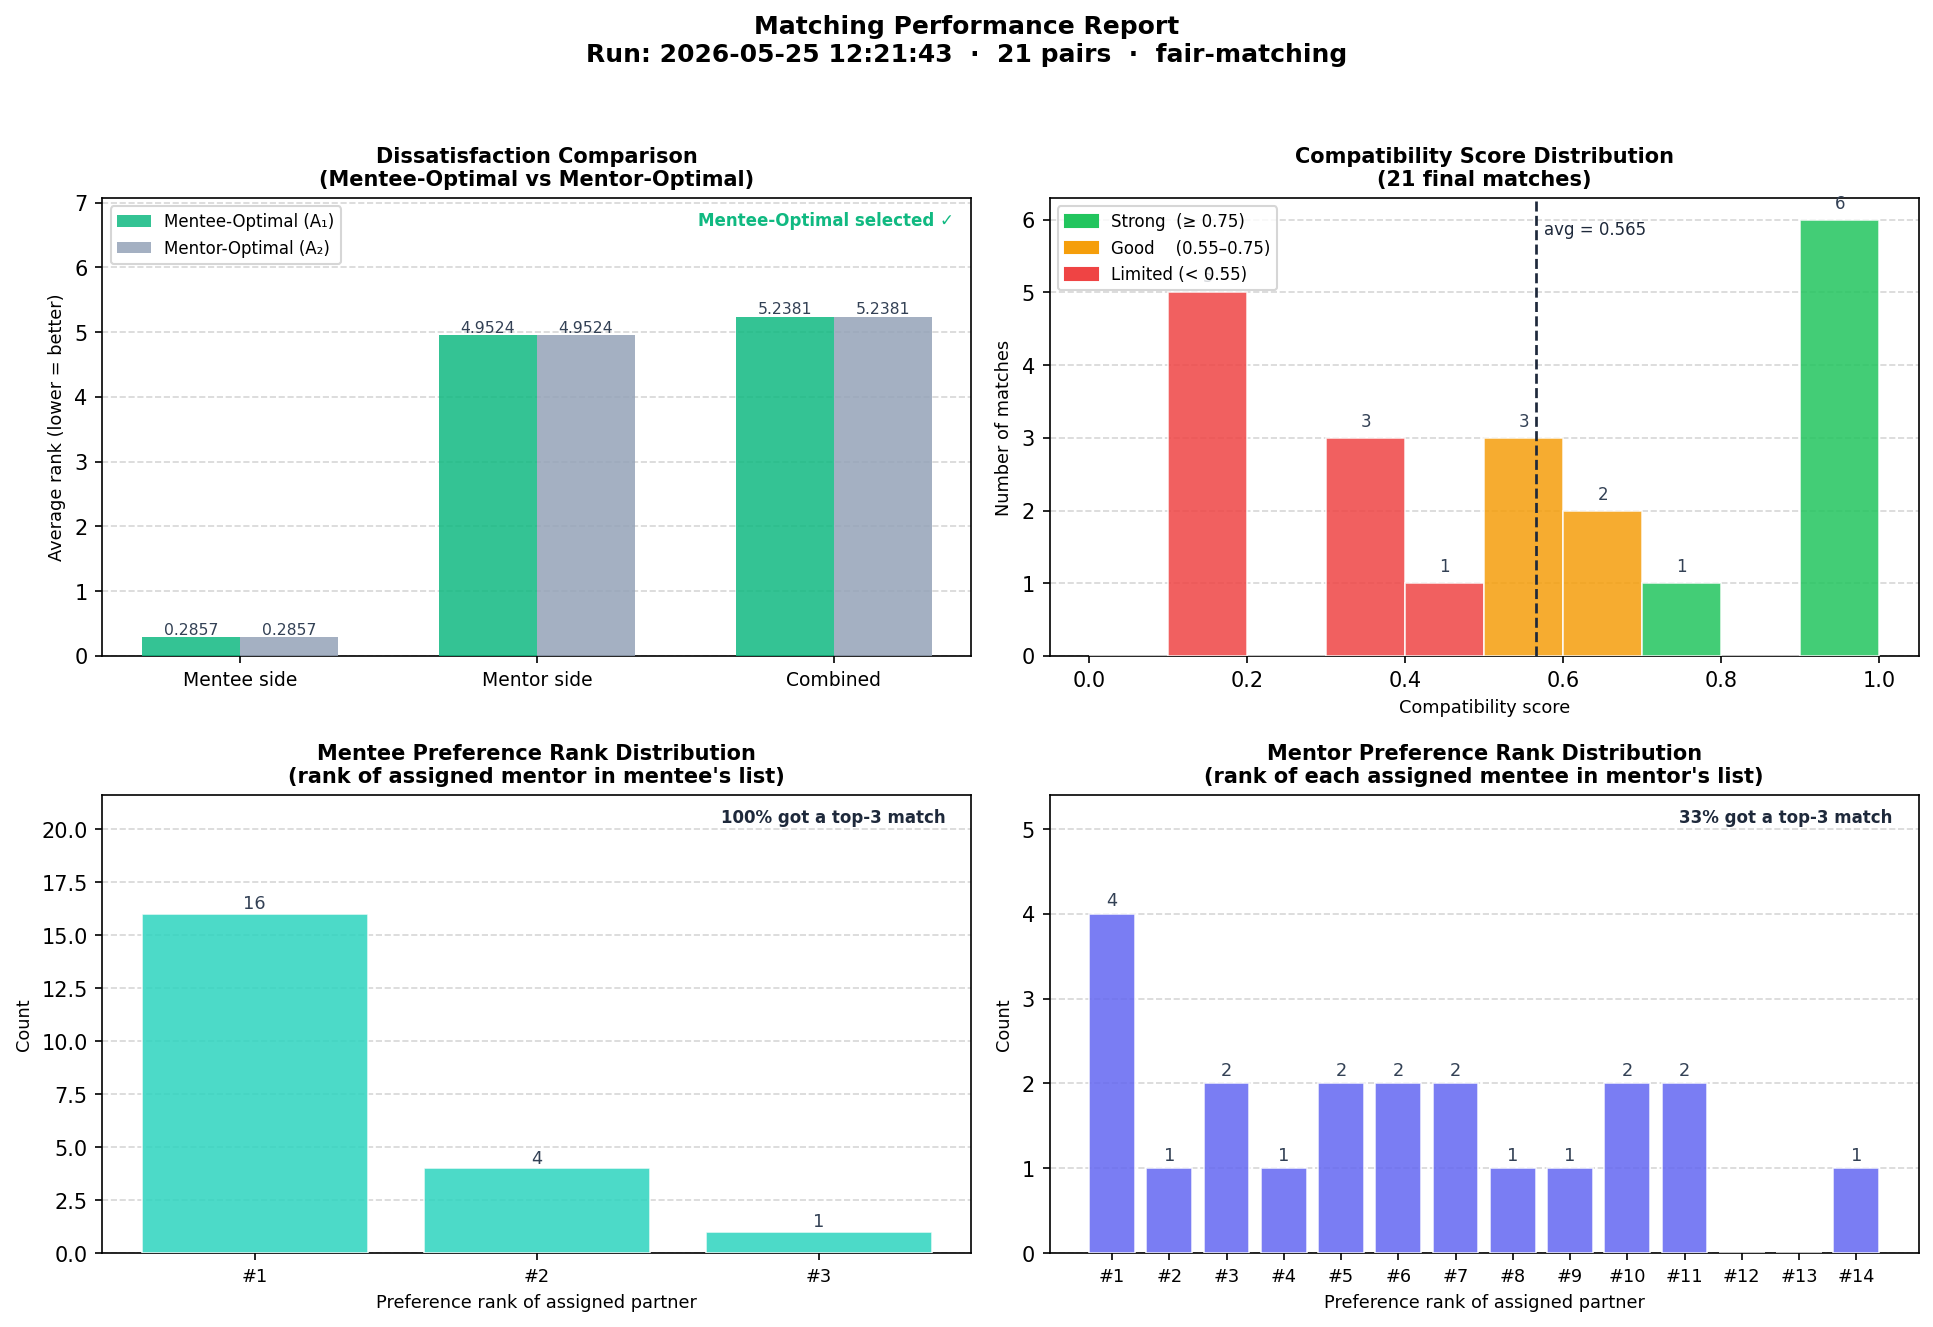
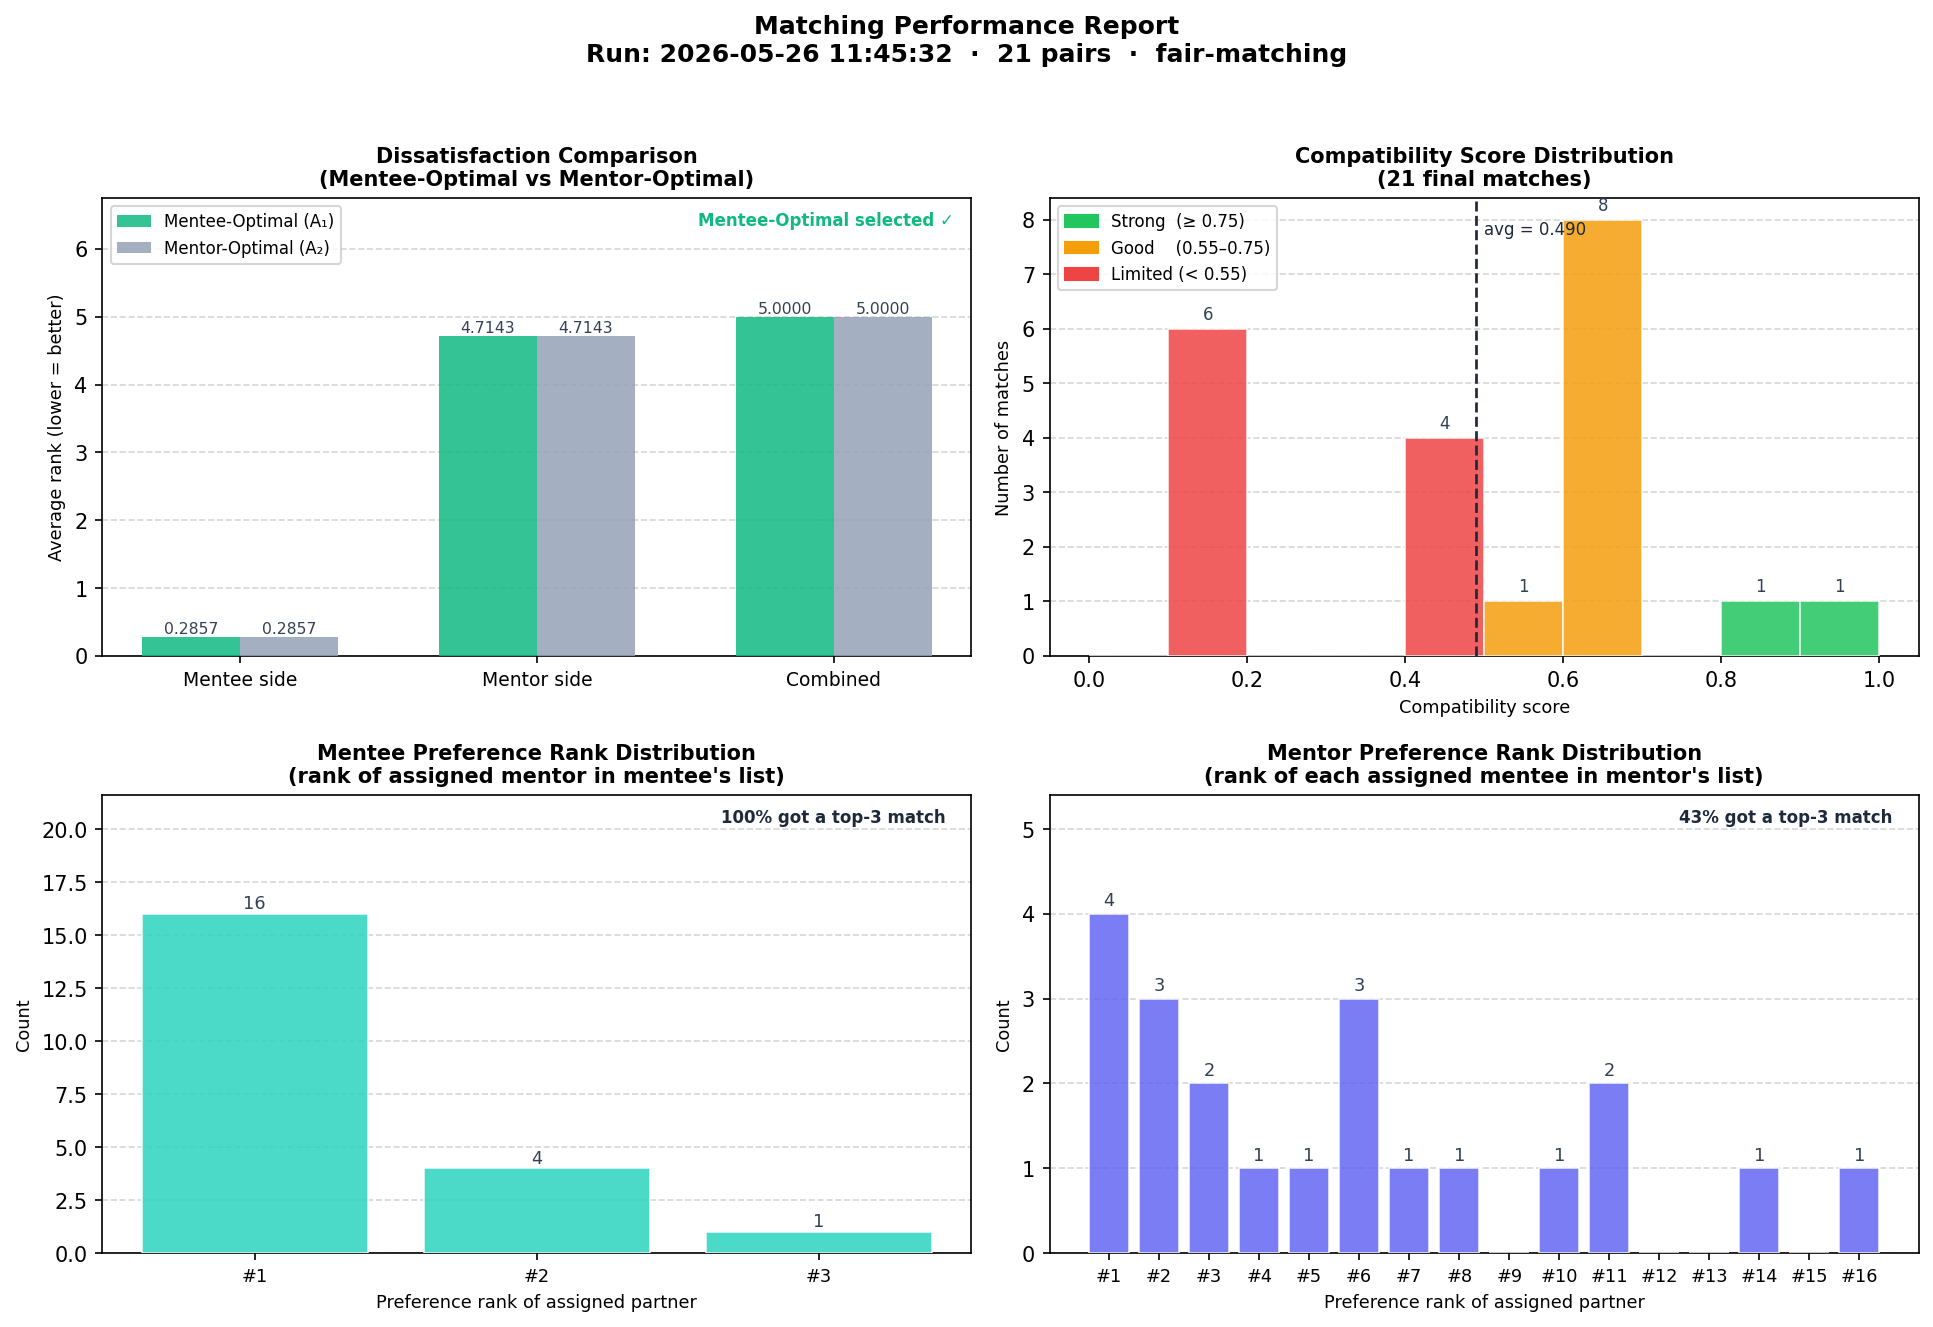
Updated algo

diff --git a/app/admin/admin.tsx b/app/admin/admin.tsx
@@ -1443,7 +1443,7 @@ export default function Admin() {
                                       {entry.top_matches.map((match: any, idx: number) => {
                                         const scoreColor = match.final_score >= 0.65 ? "bg-green-100 text-green-700"
                                           : match.final_score >= 0.40 ? "bg-amber-100 text-amber-700"
-                                          : "bg-red-100 text-red-700"
+                                            : "bg-red-100 text-red-700"
                                         return (
                                           <div key={idx} className="text-xs bg-gray-50 rounded px-3 py-2 space-y-1.5">
                                             <div className="flex flex-wrap items-center gap-2">
@@ -1507,7 +1507,7 @@ export default function Admin() {
                                       {entry.top_matches.map((match: any, idx: number) => {
                                         const scoreColor = match.final_score >= 0.65 ? "bg-green-100 text-green-700"
                                           : match.final_score >= 0.40 ? "bg-amber-100 text-amber-700"
-                                          : "bg-red-100 text-red-700"
+                                            : "bg-red-100 text-red-700"
                                         return (
                                           <div key={idx} className="text-xs bg-gray-50 rounded px-3 py-2 space-y-1.5">
                                             <div className="flex flex-wrap items-center gap-2">
@@ -1702,7 +1702,7 @@ export default function Admin() {
                           const pct = (match.score * 100).toFixed(1)
                           const scoreColor = match.score >= 0.65 ? "bg-green-100 text-green-700"
                             : match.score >= 0.40 ? "bg-amber-100 text-amber-700"
-                            : "bg-red-100 text-red-700"
+                              : "bg-red-100 text-red-700"
                           return (
                             <div key={idx} className="p-3 bg-white rounded-lg border border-green-100 space-y-1.5">
                               <div className="flex items-center gap-3">

diff --git a/app/algo/preprocess/scoring.py b/app/algo/preprocess/scoring.py
@@ -314,14 +314,16 @@ def _kw_similarity_semantic(
     threshold: float = KW_SIMILARITY_THRESHOLD,
 ) -> tuple[float, int]:
     """
-    Pairwise TF-IDF cosine between keyword lists with a similarity threshold.
+    Two-step keyword matching that guarantees exact vocab intersections are counted.
 
-    1. Normalize each keyword via normalize_keyword() (maps abbreviations like
-       "nlp" → "natural language processing" before vectorizing).
-    2. Fit a word-level TF-IDF vectorizer on the combined keyword corpus.
-    3. Compute cosine similarity matrix: shape (n_mentee, n_mentor).
-    4. A mentee keyword is "matched" when max(row) >= threshold.
-    5. Score blends mentee-coverage and min-set-coverage.
+    Step 1 — exact: normalized mentee keywords that appear verbatim in the mentor
+             list are counted immediately; no TF-IDF needed.
+    Step 2 — semantic: remaining unmatched mentee keywords are compared via pairwise
+             TF-IDF cosine against all mentor keywords; any row with max >= threshold
+             adds to the count.
+
+    This ensures Priority-1 exact matches (same as get_matched_keywords) are never
+    missed due to TF-IDF corpus artifacts.
 
     Returns (score, matched_count).
     """
@@ -331,31 +333,36 @@ def _kw_similarity_semantic(
     m_norm = [normalize_keyword(k) for k in mentor_kws]
     e_norm = [normalize_keyword(k) for k in mentee_kws]
 
-    vectorizer = TfidfVectorizer(
-        stop_words="english",
-        ngram_range=(1, 2),
-        min_df=1,
-        sublinear_tf=True,
-        analyzer="word",
-    )
-    try:
-        mat = vectorizer.fit_transform(e_norm + m_norm)
-        n_e = len(e_norm)
-        sim_matrix = cosine_similarity(mat[:n_e], mat[n_e:])
-        matched_count = int((sim_matrix.max(axis=1) >= threshold).sum())
-        if not matched_count:
-            return 0.0, 0
-        if matched_count > 4:
-            score = 1.0
-        elif matched_count > 2:
-            score = 0.7
-        else:
-            mentee_cov = matched_count / len(e_norm)
-            min_cov    = matched_count / min(len(m_norm), len(e_norm))
-            score = min((mentee_cov + min_cov) / 2, 1.0)
-        return score, matched_count
-    except Exception:
+    # Step 1: exact normalized intersections (guaranteed match)
+    m_set = set(m_norm)
+    exact_matched = {ek for ek in e_norm if ek in m_set}
+    exact_count = len(exact_matched)
+
+    # Step 2: semantic near-matches for remaining mentee keywords
+    remaining_e = [ek for ek in e_norm if ek not in exact_matched]
+    semantic_extra = 0
+    if remaining_e:
+        vectorizer = TfidfVectorizer(
+            stop_words="english",
+            ngram_range=(1, 2),
+            min_df=1,
+            sublinear_tf=True,
+            analyzer="word",
+        )
+        try:
+            mat = vectorizer.fit_transform(remaining_e + m_norm)
+            n_r = len(remaining_e)
+            sub_sim = cosine_similarity(mat[:n_r], mat[n_r:])
+            semantic_extra = int((sub_sim.max(axis=1) >= threshold).sum())
+        except Exception:
+            pass
+
+    matched_count = exact_count + semantic_extra
+    if not matched_count:
         return 0.0, 0
+    _KW_TIER = {1: 0.35, 2: 0.60, 3: 0.85}
+    score = _KW_TIER.get(matched_count, 1.0)
+    return score, matched_count
 
 
 def _kw_sim_from_sets(mentor_norm: set[str], mentee_norm: set[str]) -> float:

diff --git a/docs/context.md b/docs/context.md
@@ -160,3 +160,5 @@ Track significant system changes here. Add a new entry whenever `CLAUDE.md` inst
 | 2026-05-25 | Algorithm documentation expanded — `docs/algorithm-flowchart.md` now includes: semantic keyword scoring method detail (pairwise TF-IDF cosine, threshold, tiered score floor, soft bonus), top-1 boost explanation, dissatisfaction metric formula, algorithmic guarantees table (stability, mentee/mentor optimality, fairness, completeness), full per-stage time complexity table with notation, space complexity, and current deployment scale figures | Documentation (`docs/algorithm-flowchart.md`) |
 | 2026-05-25 | Match effectiveness metrics section added to `docs/algorithm-flowchart.md` — covers formal stability guarantee and blocking pair verification, per-run quantitative metrics (match rate, unmatched count, stability flag, dissatisfaction scores), per-pair score breakdown with interpretation benchmarks, matched keywords as explainability evidence, and post-assignment effectiveness signals (milestones, paper review, meetings) | Documentation (`docs/algorithm-flowchart.md`) |
 | 2026-05-25 | Data structures section added to `docs/algorithm-flowchart.md` — documents the four core data structures used in the matching engine (hash map, set, queue, matrix) in plain language with no technical jargon, explaining where each is used and why it was chosen over a plain list | Documentation (`docs/algorithm-flowchart.md`) |
+| 2026-05-26 | Keyword scoring changed from hybrid coverage-ratio+tier to pure count-based tiers — eliminates sparse-profile score inflation where a mentee with only 2 vocab terms in their research description scored 95% because 2/2 coverage = 100%; tiers: 1→0.35, 2→0.60, 3→0.85, ≥4→1.00; score now depends only on matched count, not profile density | Matching Engine (`scoring.py`) |
+| 2026-05-26 | `_kw_similarity_semantic()` rewritten to guarantee exact vocab intersections are always counted — two-step approach: Step 1 counts normalized exact matches directly (no TF-IDF needed); Step 2 runs semantic near-matching only on remaining unmatched mentee keywords; eliminates TF-IDF corpus artifacts that could miss obvious exact matches, ensuring score reflects what the matched keywords display shows | Matching Engine (`scoring.py`) |